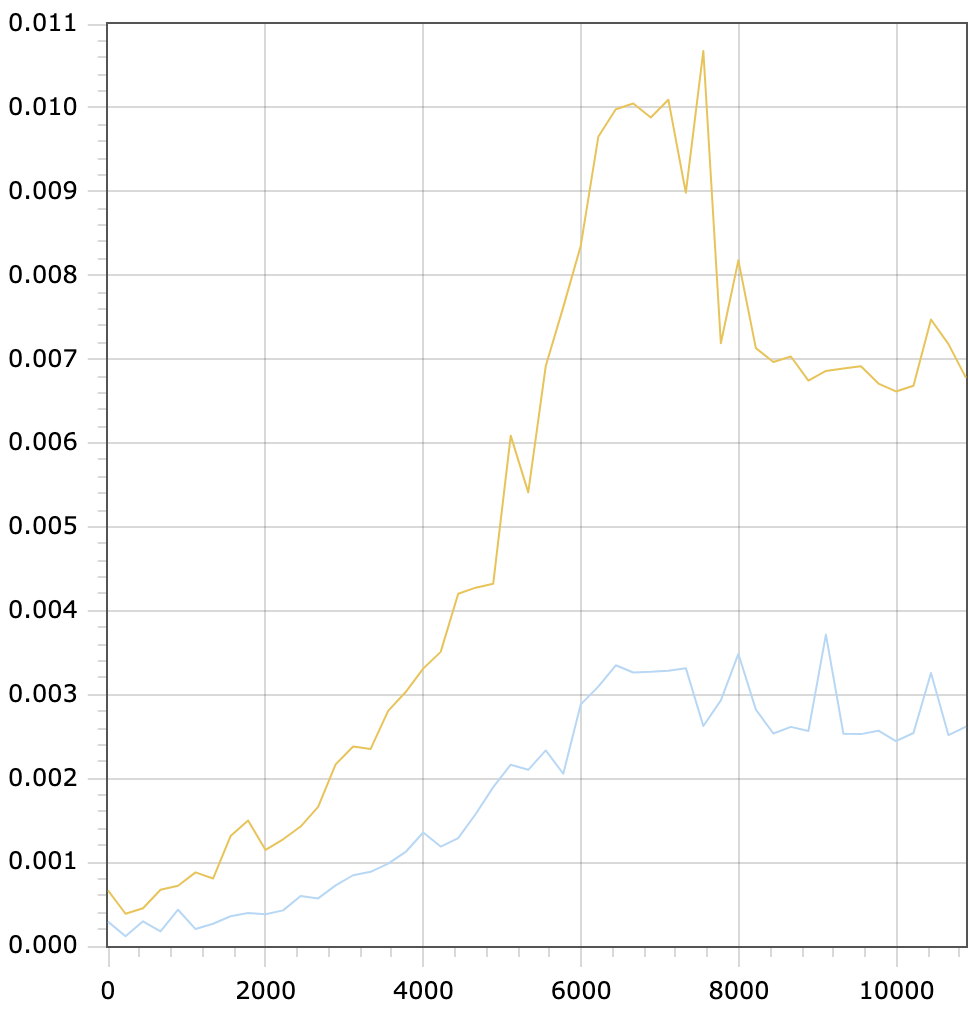
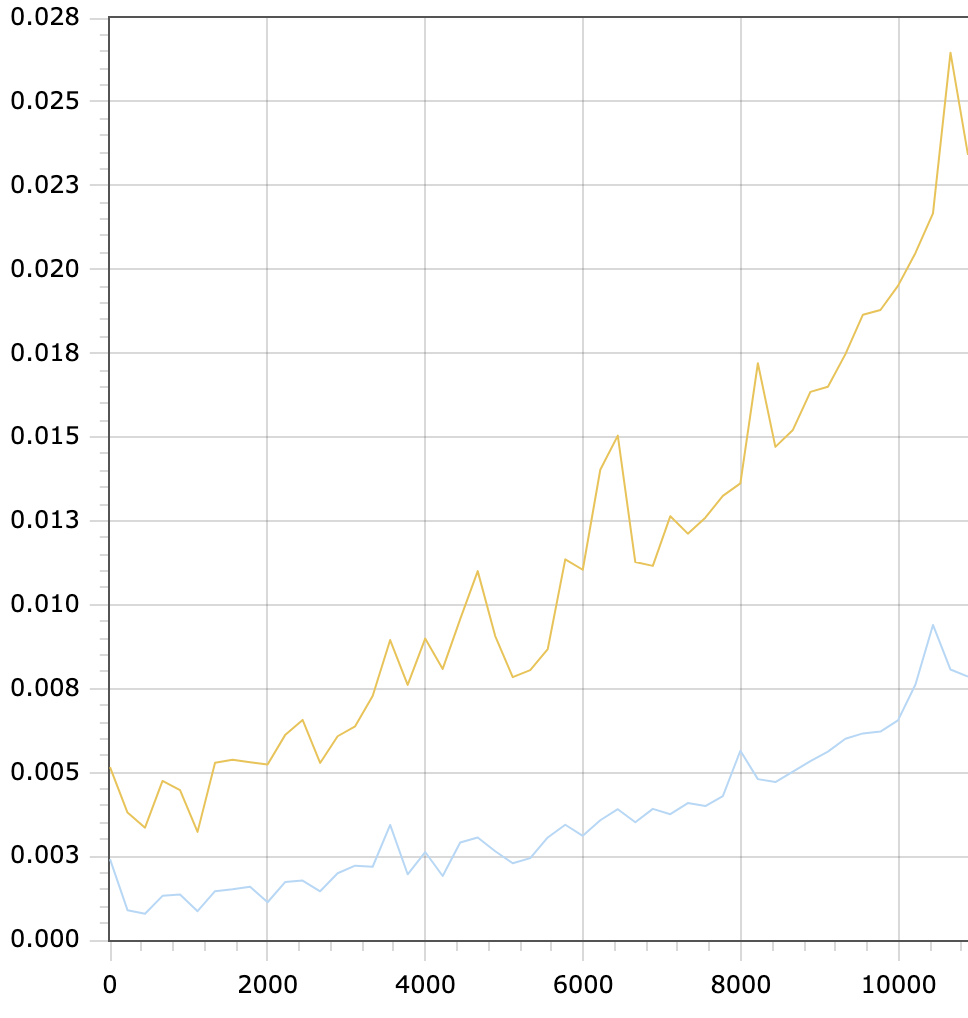
v 1.1

Changed region(s): [[0.0, 0.0, 1.0, 1.0], [0.8058, 0.7308, 0.8678, 0.7613], [0.4959, 0.7613, 0.5269, 0.7917]]

diff --git a/src/main1.cpp b/src/main1.cpp
@@ -7,7 +7,7 @@
 
 using namespace std;
 
-const size_t LARGE_SIZE = 100000;
+const size_t LARGE_SIZE = 1000000;
 
 struct rnd {
     int operator()() {
@@ -38,5 +38,6 @@ int main() {
         sort(arr_copy, arr_copy + LARGE_SIZE);
         file <<  static_cast<double>( clock() - start ) / CLOCKS_PER_SEC << "\n";
     }
+    file.close();
     return 0;
 }
